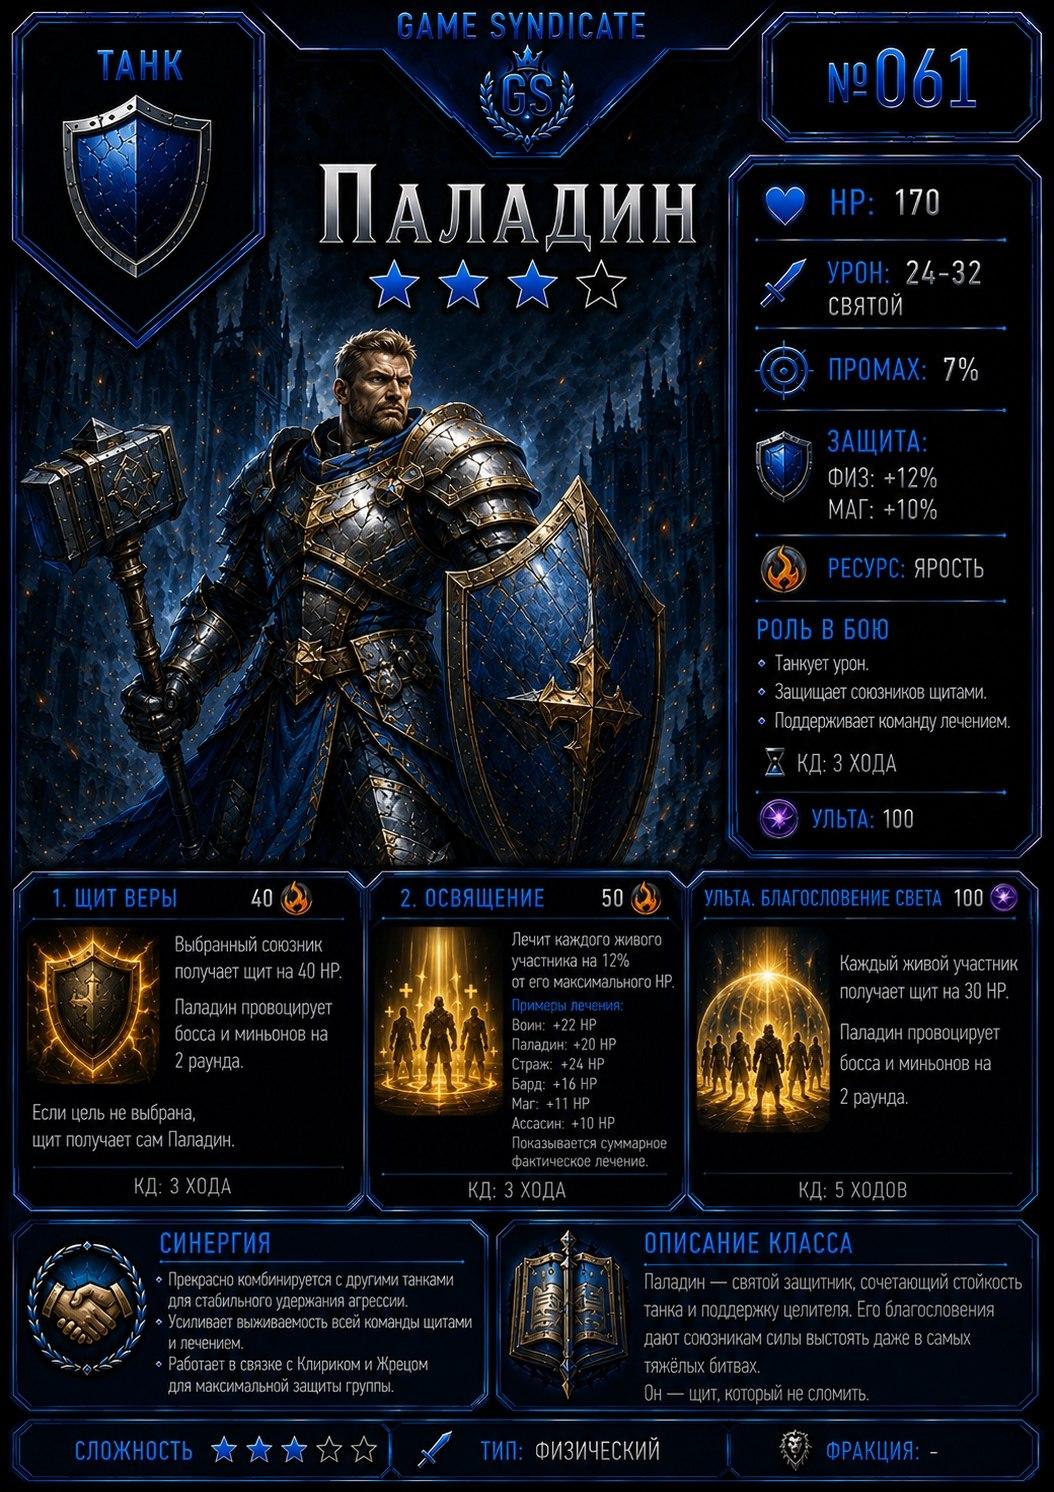
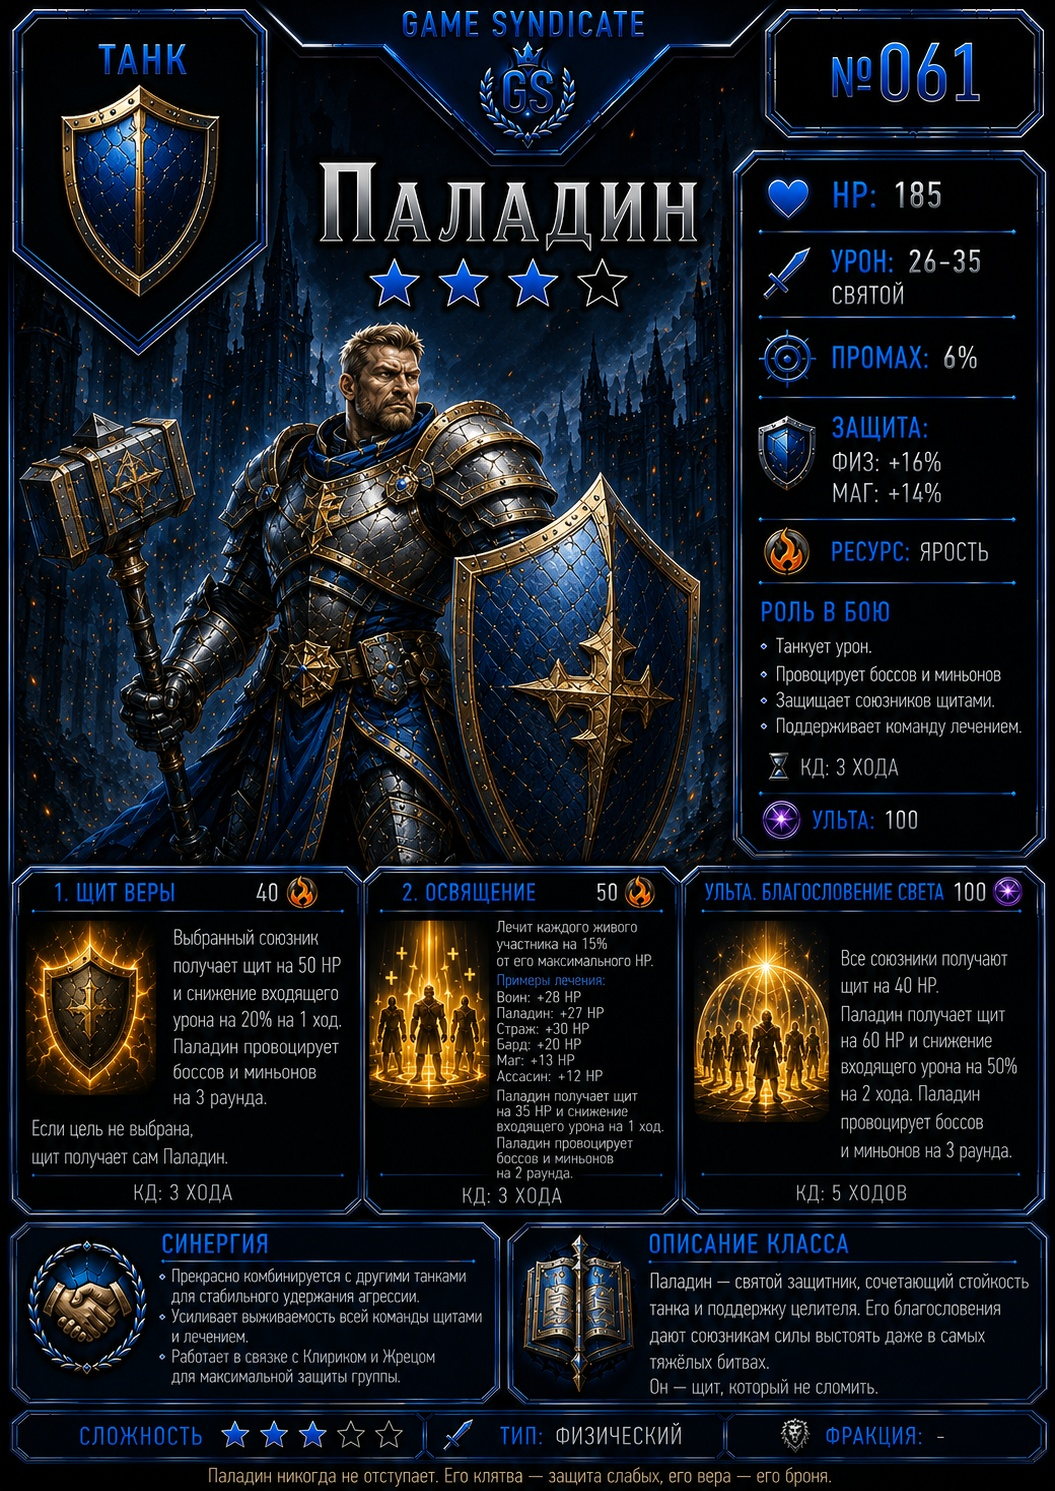
fixkads

diff --git a/commands/orders.js b/commands/orders.js
@@ -2,6 +2,7 @@ const { SlashCommandBuilder, EmbedBuilder, MessageFlags } = require('discord.js'
 const { ITEMS } = require('../systems/hero/itemData');
 const { getHero } = require('../systems/hero/heroService');
 const { createOrder,listOpenOrders,listMyOrders,fulfillOrder,cancelOrder } = require('../systems/hero/orderBoardService');
+const { duplicateEquipment,sellToBlacksmith,createListing,listOpen:listEquipment,listMine:listMyEquipment,buyListing,cancelListing } = require('../systems/hero/equipmentMarketService');
 
 const ITEM_CHOICES=[{name:'Лесные травы',value:'forest_herbs'},{name:'Пряные травы',value:'culinary_herbs'},{name:'Лунный цветок',value:'moon_blossom'},{name:'Железная руда',value:'iron_ore'},{name:'Самоцвет',value:'gemstone'},{name:'Древний фрагмент',value:'ancient_fragment'},{name:'Твёрдая древесина',value:'hardwood'},{name:'Лесные ягоды',value:'wild_berries'},{name:'Лесные грибы',value:'forest_mushrooms'},{name:'Древняя древесина',value:'ancient_wood'},{name:'Свежая рыба',value:'fresh_fish'},{name:'Морепродукты',value:'shellfish'},{name:'Лунный карп',value:'moon_carp'},{name:'Жемчуг',value:'pearl'},{name:'Сырое мясо',value:'raw_meat'},{name:'Шкура зверя',value:'beast_hide'},{name:'Кость зверя',value:'beast_bone'},{name:'Сердце зверя',value:'beast_heart'}];
 function orderLine(o){
@@ -18,12 +19,51 @@ module.exports={
   .addSubcommand(s=>s.setName('fulfill').setDescription('Частично или полностью выполнить заказ')
     .addIntegerOption(o=>o.setName('id').setDescription('ID заказа').setRequired(true).setMinValue(1))
     .addIntegerOption(o=>o.setName('quantity').setDescription('Сколько единиц передать').setRequired(true).setMinValue(1)))
+  .addSubcommand(s=>s.setName('equipment-inventory').setDescription('Показать свободные дубликаты экипировки'))
+  .addSubcommand(s=>s.setName('blacksmith-sell').setDescription('Продать дубликат экипировки кузнецу')
+    .addIntegerOption(o=>o.setName('inventory_id').setDescription('ID предмета из списка').setRequired(true).setMinValue(1)))
+  .addSubcommand(s=>s.setName('equipment-list').setDescription('Предметы игроков на продаже'))
+  .addSubcommand(s=>s.setName('equipment-sell').setDescription('Выставить дубликат экипировки')
+    .addIntegerOption(o=>o.setName('inventory_id').setDescription('ID предмета').setRequired(true).setMinValue(1))
+    .addIntegerOption(o=>o.setName('price').setDescription('Цена в GS Dust').setRequired(true).setMinValue(1).setMaxValue(10000000)))
+  .addSubcommand(s=>s.setName('equipment-buy').setDescription('Купить предмет игрока')
+    .addIntegerOption(o=>o.setName('id').setDescription('ID объявления').setRequired(true).setMinValue(1)))
+  .addSubcommand(s=>s.setName('equipment-mine').setDescription('Мои объявления экипировки'))
+  .addSubcommand(s=>s.setName('equipment-cancel').setDescription('Снять своё объявление')
+    .addIntegerOption(o=>o.setName('id').setDescription('ID объявления').setRequired(true).setMinValue(1)))
   .addSubcommand(s=>s.setName('mine').setDescription('Показать мои заказы'))
   .addSubcommand(s=>s.setName('cancel').setDescription('Отменить свой заказ и вернуть остаток Dust')
     .addIntegerOption(o=>o.setName('id').setDescription('ID заказа').setRequired(true).setMinValue(1))),
  async execute(interaction){
   if(!getHero(interaction.user.id))return interaction.reply({content:'❌ Сначала создай героя.',flags:MessageFlags.Ephemeral});
   const sub=interaction.options.getSubcommand();
+  if(sub==='equipment-inventory'){
+    const rows=duplicateEquipment(interaction.user.id);
+    return interaction.reply({embeds:[new EmbedBuilder().setColor(0x8B5CF6).setTitle('🎒 Дубликаты экипировки').setDescription(rows.length?rows.map(x=>`ID **${x.id}** • **${x.name}** [${x.rarity}] • свободно: **${x.sellable}**${x.upgrade_level?` • +${x.upgrade_level}`:''}`).join('\n'):'Свободных дубликатов нет. Последняя копия и экипированные предметы не продаются.')],flags:MessageFlags.Ephemeral});
+  }
+  if(sub==='blacksmith-sell'){
+    const r=sellToBlacksmith(interaction.user.id,interaction.options.getInteger('inventory_id'));
+    const errors={not_found:'❌ Экипировка не найдена.',equipped:'❌ Экипированный предмет продать нельзя.',last_copy:'❌ Последнюю копию предмета продать нельзя.'};
+    return interaction.reply({content:r.ok?`🔨 Кузнец купил **${r.item.name}** за **${r.earned} GS Dust**. Баланс: **${r.balance}**.`:(errors[r.reason]||'❌ Продажа не выполнена.'),flags:MessageFlags.Ephemeral});
+  }
+  if(sub==='equipment-list'){
+    const rows=listEquipment(25); return interaction.reply({embeds:[new EmbedBuilder().setColor(0x8B5CF6).setTitle('🛒 Рынок экипировки').setDescription(rows.length?rows.map(x=>`#**${x.id}** • **${x.item_name}** [${x.rarity}]${x.upgrade_level?` +${x.upgrade_level}`:''} • **${x.price} Dust** • <@${x.seller_id}>`).join('\n'):'Открытых объявлений нет.')],flags:MessageFlags.Ephemeral});
+  }
+  if(sub==='equipment-mine'){
+    const rows=listMyEquipment(interaction.user.id,25); return interaction.reply({embeds:[new EmbedBuilder().setColor(0x8B5CF6).setTitle('📝 Мои объявления').setDescription(rows.length?rows.map(x=>`#**${x.id}** • **${x.item_name}** • ${x.price} Dust • ${x.status}`).join('\n'):'Объявлений нет.')],flags:MessageFlags.Ephemeral});
+  }
+  if(sub==='equipment-sell'){
+    const r=createListing(interaction.user.id,interaction.options.getInteger('inventory_id'),interaction.options.getInteger('price'));
+    const errors={not_found:'❌ Экипировка не найдена.',equipped:'❌ Экипированный предмет выставить нельзя.',last_copy:'❌ Можно выставлять только лишние копии.',price:'❌ Неверная цена.'};
+    return interaction.reply({content:r.ok?`✅ **${r.listing.item_name}** выставлен под №${r.listing.id} за **${r.listing.price} GS Dust**.`:(errors[r.reason]||'❌ Не удалось создать объявление.'),flags:MessageFlags.Ephemeral});
+  }
+  if(sub==='equipment-buy'){
+    const r=buyListing(interaction.user.id,interaction.options.getInteger('id')); const errors={closed:'❌ Объявление уже закрыто.',self:'❌ Нельзя купить собственный предмет.',dust:`❌ Недостаточно Dust. Нужно **${r.price||0}**.`};
+    return interaction.reply({content:r.ok?`✅ Куплен предмет **${r.listing.item_name}** за **${r.listing.price} GS Dust**.`:(errors[r.reason]||'❌ Покупка не выполнена.'),flags:MessageFlags.Ephemeral});
+  }
+  if(sub==='equipment-cancel'){
+    const r=cancelListing(interaction.user.id,interaction.options.getInteger('id')); return interaction.reply({content:r.ok?`✅ Объявление снято, **${r.listing.item_name}** возвращён в инвентарь.`:'❌ Объявление не найдено или уже закрыто.',flags:MessageFlags.Ephemeral});
+  }
   if(sub==='list'){
     const rows=listOpenOrders(25);
     return interaction.reply({embeds:[new EmbedBuilder().setColor(0x8B5CF6).setTitle('📜 Доска заказов').setDescription(rows.length?rows.map(orderLine).join('\n'):'Открытых заказов пока нет.').setFooter({text:'Используй /orders fulfill для частичного или полного выполнения.'})],flags:MessageFlags.Ephemeral});

diff --git a/systems/hero/equipmentMarketService.js b/systems/hero/equipmentMarketService.js
@@ -1,0 +1,64 @@
+const { db, getCardDust, addCardDust, removeCardDust } = require('../../database/db');
+const { getInventory, getInventoryItem, grantItem } = require('./itemService');
+
+const BLACKSMITH_PRICES={common:25,rare:70,epic:180,legendary:450,mythic:1000,exclusive:1500};
+
+db.exec(`
+CREATE TABLE IF NOT EXISTS equipment_market_listings (
+ id INTEGER PRIMARY KEY AUTOINCREMENT,
+ seller_id TEXT NOT NULL,
+ item_key TEXT NOT NULL,
+ item_name TEXT NOT NULL,
+ rarity TEXT NOT NULL,
+ upgrade_level INTEGER NOT NULL DEFAULT 0,
+ quantity INTEGER NOT NULL DEFAULT 1,
+ price INTEGER NOT NULL,
+ status TEXT NOT NULL DEFAULT 'open',
+ buyer_id TEXT,
+ created_at TEXT NOT NULL DEFAULT CURRENT_TIMESTAMP,
+ closed_at TEXT
+);
+CREATE INDEX IF NOT EXISTS idx_equipment_market_open ON equipment_market_listings(status,id DESC);
+CREATE INDEX IF NOT EXISTS idx_equipment_market_seller ON equipment_market_listings(seller_id,id DESC);
+`);
+function isEquipped(userId,inventoryId){
+ return !!db.prepare(`SELECT 1 FROM hero_equipment WHERE user_id=? AND inventory_id=?
+ UNION ALL SELECT 1 FROM hero_class_equipment WHERE user_id=? AND inventory_id=? LIMIT 1`).get(userId,inventoryId,userId,inventoryId);
+}
+function duplicateEquipment(userId){
+ return getInventory(userId,{limit:200}).filter(x=>x.slot && Number(x.quantity)>1).map(x=>({...x,sellable:Number(x.quantity)-1}));
+}
+function removeOne(userId,item){
+ if(Number(item.quantity)<=1) db.prepare('DELETE FROM hero_inventory WHERE id=? AND user_id=?').run(item.id,userId);
+ else db.prepare('UPDATE hero_inventory SET quantity=quantity-1 WHERE id=? AND user_id=?').run(item.id,userId);
+}
+function sellToBlacksmith(userId,inventoryId){
+ const item=getInventoryItem(userId,inventoryId); if(!item||!item.slot)return {ok:false,reason:'not_found'};
+ if(isEquipped(userId,inventoryId))return {ok:false,reason:'equipped'};
+ if(Number(item.quantity)<=1)return {ok:false,reason:'last_copy'};
+ const earned=(BLACKSMITH_PRICES[item.rarity]||20)+Number(item.upgrade_level||0)*15;
+ const tx=db.transaction(()=>{removeOne(userId,item);addCardDust(userId,earned);}); tx();
+ return {ok:true,item,earned,balance:getCardDust(userId)};
+}
+function createListing(userId,inventoryId,price){
+ price=Math.floor(Number(price)); if(price<1||price>10000000)return {ok:false,reason:'price'};
+ const item=getInventoryItem(userId,inventoryId); if(!item||!item.slot)return {ok:false,reason:'not_found'};
+ if(isEquipped(userId,inventoryId))return {ok:false,reason:'equipped'};
+ if(Number(item.quantity)<=1)return {ok:false,reason:'last_copy'};
+ let id; const tx=db.transaction(()=>{removeOne(userId,item);id=db.prepare(`INSERT INTO equipment_market_listings(seller_id,item_key,item_name,rarity,upgrade_level,quantity,price) VALUES(?,?,?,?,?,1,?)`).run(userId,item.item_key,item.name,item.rarity,Number(item.upgrade_level||0),price).lastInsertRowid;}); tx();
+ return {ok:true,listing:getListing(id)};
+}
+function getListing(id){return db.prepare('SELECT * FROM equipment_market_listings WHERE id=?').get(id)||null;}
+function listOpen(limit=25){return db.prepare("SELECT * FROM equipment_market_listings WHERE status='open' ORDER BY id DESC LIMIT ?").all(limit);}
+function listMine(userId,limit=25){return db.prepare('SELECT * FROM equipment_market_listings WHERE seller_id=? ORDER BY id DESC LIMIT ?').all(userId,limit);}
+function buyListing(userId,id){
+ const l=getListing(id); if(!l||l.status!=='open')return {ok:false,reason:'closed'}; if(l.seller_id===String(userId))return {ok:false,reason:'self'};
+ if(getCardDust(userId)<Number(l.price))return {ok:false,reason:'dust',price:l.price};
+ const tx=db.transaction(()=>{if(!removeCardDust(userId,Number(l.price)))throw new Error('dust');addCardDust(l.seller_id,Number(l.price));grantItem(userId,l.item_key,1,'equipment_market');if(Number(l.upgrade_level)>0)db.prepare('UPDATE hero_inventory SET upgrade_level=MAX(upgrade_level,?) WHERE user_id=? AND item_key=?').run(Number(l.upgrade_level),userId,l.item_key);db.prepare("UPDATE equipment_market_listings SET status='sold',buyer_id=?,closed_at=CURRENT_TIMESTAMP WHERE id=? AND status='open'").run(userId,id);});
+ try{tx();}catch(e){return {ok:false,reason:'transaction'};} return {ok:true,listing:getListing(id)};
+}
+function cancelListing(userId,id){
+ const l=getListing(id); if(!l||l.seller_id!==String(userId)||l.status!=='open')return {ok:false,reason:'missing'};
+ const tx=db.transaction(()=>{grantItem(userId,l.item_key,1,'equipment_market_cancel');if(Number(l.upgrade_level)>0)db.prepare('UPDATE hero_inventory SET upgrade_level=MAX(upgrade_level,?) WHERE user_id=? AND item_key=?').run(Number(l.upgrade_level),userId,l.item_key);db.prepare("UPDATE equipment_market_listings SET status='cancelled',closed_at=CURRENT_TIMESTAMP WHERE id=?").run(id);});tx();return {ok:true,listing:getListing(id)};
+}
+module.exports={duplicateEquipment,sellToBlacksmith,createListing,listOpen,listMine,buyListing,cancelListing};

diff --git a/GS-CORE-V18.3.13-WORLD-BOSS-UX-ULT-SUMMONS-MARKET.md b/GS-CORE-V18.3.13-WORLD-BOSS-UX-ULT-SUMMONS-MARKET.md
@@ -1,0 +1,29 @@
+# GS CORE V18.3.13
+
+## World Boss UX
+- Команда переименована в «Порядок ходов» после инициативы.
+- Добавлена нумерация очереди и статусы: уже сходил / ходит сейчас / ожидает / погиб.
+- Блок текущего хода показывает номер хода в раунде.
+- Для каждого класса показывается отдельный индикатор ульты 0–100.
+- Журнал отображается с увеличенными отступами; сохранение истории увеличено до 40 событий.
+
+## Призывы
+- Тотемы Шамана и Дух зверя Друида отображаются в отдельном блоке «Тотемы, духи и призывы».
+- Совет духов показывает три отдельные сущности.
+
+## Лучник
+- «Три выстрела»: 30–38 урона за стрелу.
+- Каждая стрела отдельно проверяет промах.
+- В журнале отдельно отображается результат каждой стрелы и общий урон.
+
+## Паладин
+- HP 185, урон 26–35, промах 6%, физическая защита +16%, магическая +14%.
+- Усилены щиты, провокация и выживаемость.
+
+## Экипировка
+- Продажа лишних копий кузнецу за GS Dust.
+- Рынок экипировки игроков на Доске заказов.
+- Последняя копия и экипированные предметы защищены от продажи.
+
+## Карточки
+- Обновлены карточки №061 Паладин и №067 Лучник.
